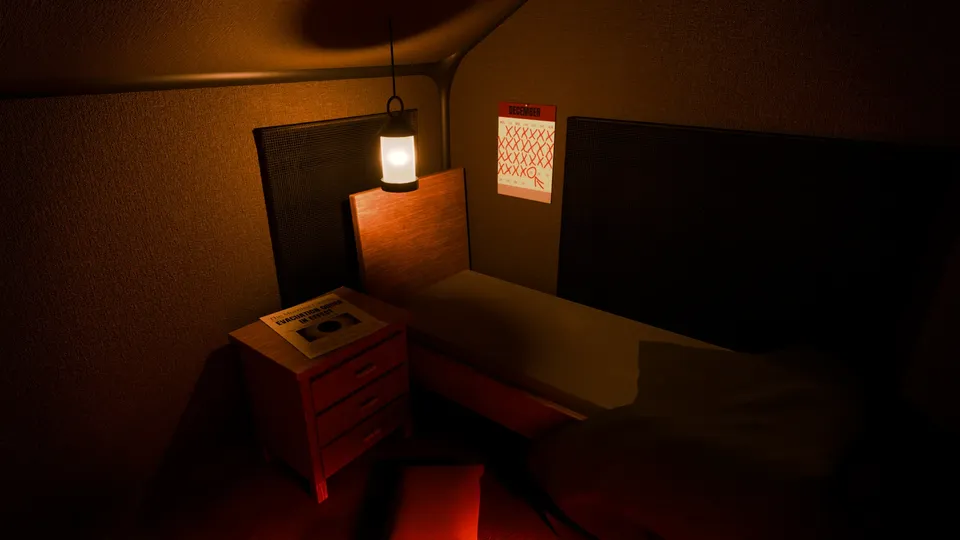
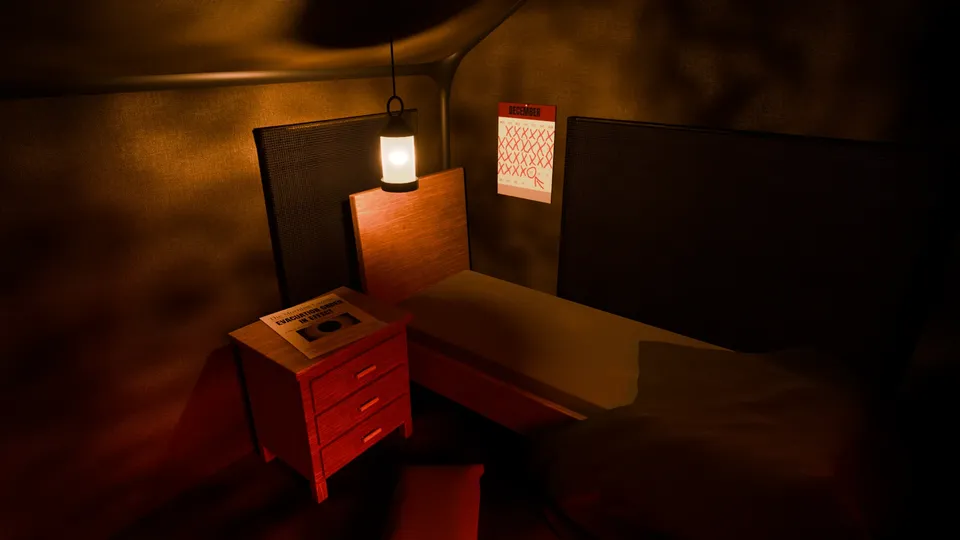
Update renders, rename Black Sun to Eclipse, refresh link preview

diff --git a/index.html b/index.html
@@ -4,7 +4,7 @@
   <meta charset="utf-8">
   <meta name="viewport" content="width=device-width, initial-scale=1">
   <title>Jaddison — Portfolio</title>
-  <meta name="description" content="Selected work: Chore Score, a live shared ledger for student houses; Fishing Map, a global fishing-activity tracker; and Black Sun, a short Blender render series.">
+  <meta name="description" content="Selected work: Chore Score, a live shared ledger for student houses; Fishing Map, a global fishing-activity tracker; and Eclipse, a short Blender render series.">
   <meta name="theme-color" content="#07050a">
   <link rel="canonical" href="https://jaddison123.github.io/">
   <!-- Link previews (LinkedIn, Slack, X, iMessage…) need absolute URLs and a JPG/PNG -->
@@ -12,12 +12,12 @@
   <meta property="og:url" content="https://jaddison123.github.io/">
   <meta property="og:site_name" content="Jaddison">
   <meta property="og:title" content="Jaddison — Portfolio">
-  <meta property="og:description" content="Chore Score, a live shared ledger for student houses; Fishing Map, a global fishing-activity tracker; and Black Sun, a Blender render series. Built with Three.js.">
+  <meta property="og:description" content="Chore Score, a live shared ledger for student houses; Fishing Map, a global fishing-activity tracker; and Eclipse, a Blender render series. Built with Three.js.">
   <meta property="og:image" content="https://jaddison123.github.io/assets/img/og-image.jpg">
   <meta property="og:image:type" content="image/jpeg">
   <meta property="og:image:width" content="1200">
   <meta property="og:image:height" content="627">
-  <meta property="og:image:alt" content="JADDISON over a huge black sun ringed with red and white waves, above a small silhouetted town">
+  <meta property="og:image:alt" content="JADDISON over a huge total eclipse with a glowing red corona, above a small silhouetted town">
   <meta name="twitter:card" content="summary_large_image">
   <meta name="twitter:title" content="Jaddison — Portfolio">
   <meta name="twitter:description" content="Web apps, data maps and 3D worlds.">
@@ -60,7 +60,7 @@
     <nav aria-label="Projects">
       <a href="#chore"><span>01</span> Chore Score</a>
       <a href="#fish"><span>02</span> Fishing Map</a>
-      <a href="#story"><span>03</span> Black Sun</a>
+      <a href="#story"><span>03</span> Eclipse</a>
     </nav>
   </header>
 
@@ -164,25 +164,25 @@
       </figure>
     </section>
 
-    <!-- 03 BLACK SUN ────────────────────────────────── -->
+    <!-- 03 ECLIPSE ────────────────────────────────── -->
     <section id="story" class="story">
       <div class="story-pin">
         <canvas id="story-canvas" aria-hidden="true"></canvas>
         <div class="story-fallback">
           <img src="assets/img/render-room.webp" srcset="assets/img/render-room-960.webp 960w, assets/img/render-room.webp 1920w" sizes="100vw" width="1920" height="1080" loading="lazy" alt="A lantern-lit bedroom; a December calendar is crossed off day by day and a newspaper reads 'Evacuation order in effect'">
-          <img src="assets/img/render-door.webp" srcset="assets/img/render-door-960.webp 960w, assets/img/render-door.webp 1920w" sizes="100vw" width="1920" height="1080" loading="lazy" alt="Looking out through a dark doorway at a vast black sun, its red corona reflected in puddles">
-          <img src="assets/img/render-town.webp" srcset="assets/img/render-town-960.webp 960w, assets/img/render-town.webp 1920w" sizes="100vw" width="1920" height="1080" loading="lazy" alt="A tiny settlement silhouetted against an enormous black sun ringed with red and white waves, beside an evacuation-order sign">
+          <img src="assets/img/render-door.webp" srcset="assets/img/render-door-960.webp 960w, assets/img/render-door.webp 1920w" sizes="100vw" width="1920" height="1080" loading="lazy" alt="Looking out through a dark doorway at a vast eclipse, its red corona reflected in puddles">
+          <img src="assets/img/render-town.webp" srcset="assets/img/render-town-960.webp 960w, assets/img/render-town.webp 1920w" sizes="100vw" width="1920" height="1080" loading="lazy" alt="A tiny settlement silhouetted against an enormous total eclipse with a glowing red corona, beside an evacuation-order sign">
         </div>
         <div class="story-hud">
           <div class="story-title">
             <span class="index">03 / 03</span>
-            <h2 class="project-title" data-split>BLACK SUN</h2>
+            <h2 class="project-title" data-split>ECLIPSE</h2>
             <p class="kicker">Three renders · Blender</p>
           </div>
           <ol class="story-chapters" aria-hidden="true">
             <li class="is-active"><span>I</span>Interior</li>
-            <li><span>II</span>Threshold</li>
-            <li><span>III</span>Eclipse</li>
+            <li><span>II</span>Doorway</li>
+            <li><span>III</span>Exterior</li>
           </ol>
           <div class="story-bar"><i></i></div>
         </div>

diff --git a/js/story.js b/js/story.js
@@ -1,5 +1,5 @@
-// Black Sun: the three renders as a pinned, full-screen scroll sequence.
-// Shots change through an expanding "black sun" wipe with a burning corona edge.
+// Eclipse: the three renders as a pinned, full-screen scroll sequence.
+// Shots change through an expanding eclipse wipe with a burning corona edge.
 // Each shot gets a small living detail: lantern flicker, puddle ripples, corona pulse.
 import * as THREE from 'three';
 import { makeLoop, pointer, isMobile } from './util.js';
@@ -46,10 +46,13 @@ vec3 shot(int i, vec2 sUv){
     col = texture2D(t1, uv).rgb;
   } else {
     col = texture2D(t2, uv).rgb;
-    // corona pulse: brighten red rings in waves moving outward
-    float d = length((uv - vec2(0.5, 0.606)) * vec2(16.0/9.0, 1.0));
+    // corona pulse: the glow around the eclipse breathes and flickers like plasma
+    vec2 cq = (uv - vec2(0.5, 0.646)) * vec2(16.0/9.0, 1.0);
+    float d = length(cq);
     float red = clamp(col.r - max(col.g, col.b), 0.0, 1.0);
-    col += col * red * 0.35 * (0.5 + 0.5*sin(d*28.0 - uTime*2.0)) * smoothstep(0.42, 0.5, d);
+    float flick = noise(vec2(atan(cq.y, cq.x) * 6.0, uTime * 0.8)) * 0.6 + 0.4 + 0.25*sin(uTime*1.3);
+    float rim = smoothstep(0.43, 0.46, d) * (1.0 - smoothstep(0.5, 0.68, d));
+    col += col * red * 0.55 * flick * rim;
   }
   // soft letterbox outside the image
   float e = 0.002;

diff --git a/js/main.js b/js/main.js
@@ -174,7 +174,7 @@ if (!hasGsap) {
     });
   }
 
-  // ── Black Sun: pinned three-shot sequence ────────────
+  // ── Eclipse: pinned three-shot sequence ────────────
   if (story) {
     const chapters = document.querySelectorAll('.story-chapters li');
     const bar = document.querySelector('.story-bar i');

diff --git a/js/sun.js b/js/sun.js
@@ -1,4 +1,4 @@
-// Hero: a live, shader-drawn version of the black sun from the Blender renders.
+// Hero: a live, shader-drawn version of the eclipse from the Blender renders.
 // Wavy red/white corona rings, a spotted red sky, cursor ripples, and a scroll
 // "zoom" that lets the disc swallow the screen.
 import * as THREE from 'three';

diff --git a/README.md b/README.md
@@ -6,10 +6,10 @@ A single-page portfolio with live 3D scenes, built for GitHub Pages. No build st
 
 | Section | 3D / effect | File |
 | --- | --- | --- |
-| Hero | Shader-drawn black sun (wavy corona, spotted sky, cursor ripples). Scrolling lets the sun swallow the screen. | `js/sun.js` |
+| Hero | Shader-drawn eclipse (wavy corona, spotted sky, cursor ripples). Scrolling lets the eclipse swallow the screen. | `js/sun.js` |
 | 01 Chore Score | Low-poly four-room house. Scrolling lifts the roof and pulls the rooms apart; chore and bill cards orbit it and coins rise out of it. Drag to spin. | `js/house.js` |
 | 02 Fishing Map | Dotted globe with fishing hotspots that glow and pulse along the coasts, schools of fish circling it, and region buttons that fly the camera to that region. | `js/globe.js` |
-| 03 Black Sun | The three Blender renders as a pinned full-screen sequence. Each shot gives way to the next through an expanding black sun with a corona edge, plus a flickering lantern, rippling puddles and a pulsing corona. | `js/story.js` |
+| 03 Eclipse | The three Blender renders as a pinned full-screen sequence. Each shot gives way to the next through an expanding eclipse with a corona edge, plus a flickering lantern, rippling puddles and a pulsing corona. | `js/story.js` |
 
 `js/main.js` handles smooth scrolling, pinning, the text reveals, the custom cursor, magnetic buttons and the tilting screenshot frames.
 
